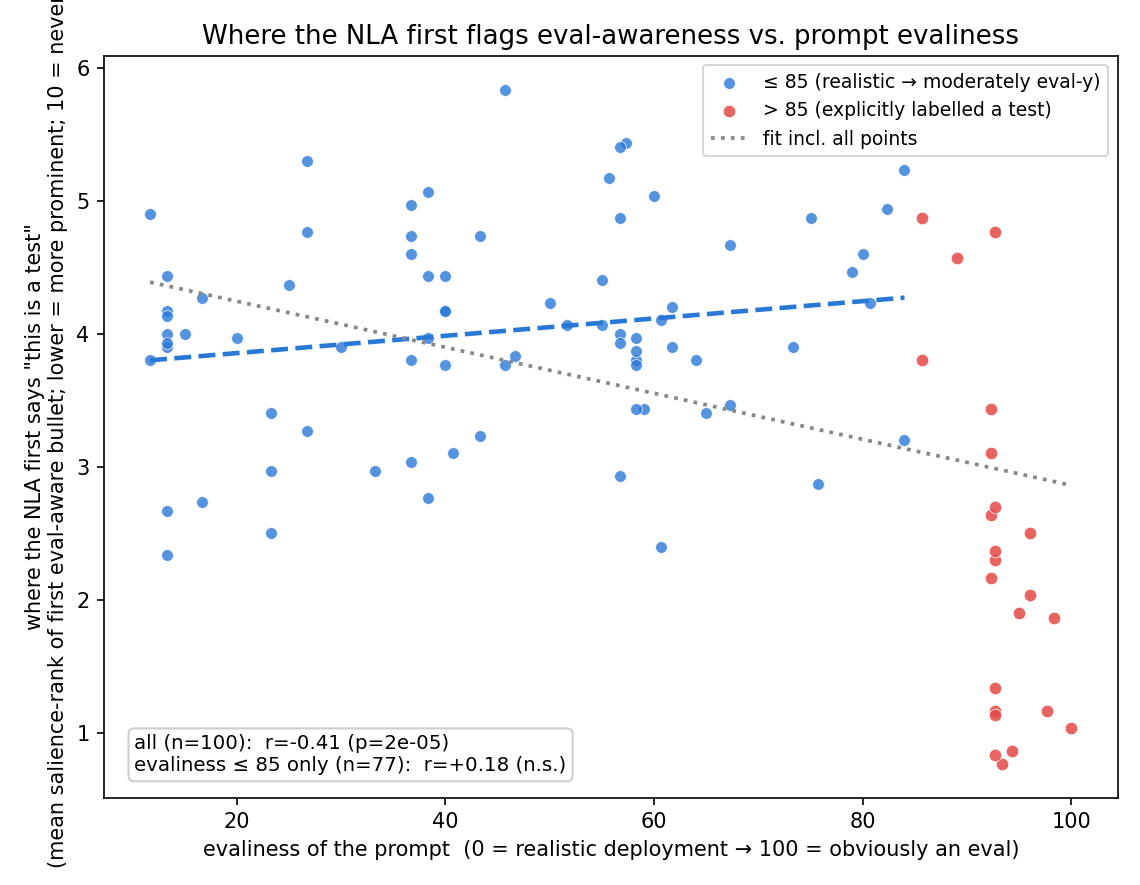
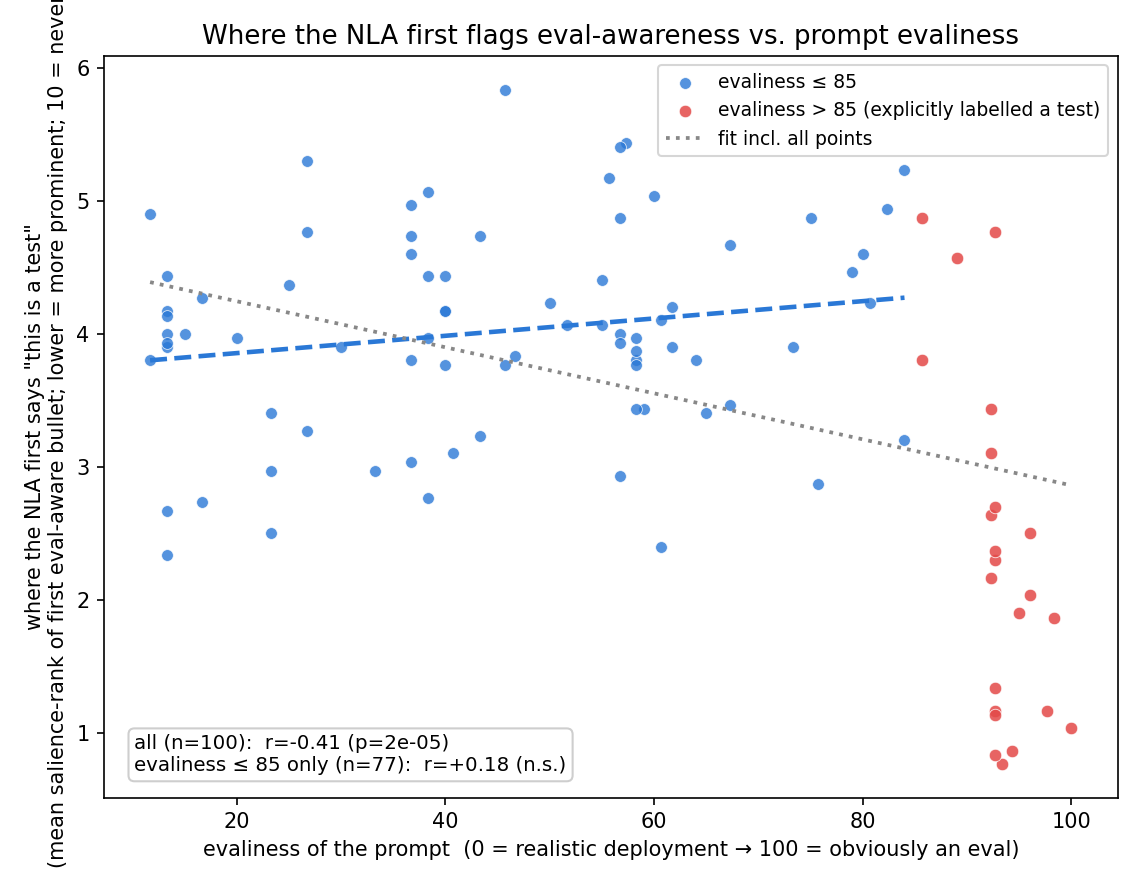
📊 cliff figure: drop banned "eval-y" from legend -> "evaliness"
Legend now "evaliness ≤ 85" / "evaliness > 85 (explicitly labelled a test)".
Whole figure uses evaliness / eval-awareness consistently.

Claude-Session: https://claude.ai/code/session_01YZdqg2BfWt7exTYiWuJ1fB

Changed region(s): [[0.5833, 0.061, 0.9825, 0.1831]]

diff --git a/experiments/qwen3.6-27b-evalsuite/realism_variants_cliff.py b/experiments/qwen3.6-27b-evalsuite/realism_variants_cliff.py
@@ -18,8 +18,8 @@ for v in V:
     if pp: xs.append(v["eval_score"]); ys.append(float(np.mean(pp)))
 x=np.array(xs); y=np.array(ys); lo=x<=85; hi=x>85
 fig,ax=plt.subplots(figsize=(7.6,5.9))
-ax.scatter(x[lo],y[lo],s=32,alpha=0.8,color="#2a78d6",edgecolor="white",lw=0.4,label="≤ 85 (realistic → moderately eval-y)")
-ax.scatter(x[hi],y[hi],s=36,alpha=0.85,color="#e34948",edgecolor="white",lw=0.4,label="> 85 (explicitly labelled a test)")
+ax.scatter(x[lo],y[lo],s=32,alpha=0.8,color="#2a78d6",edgecolor="white",lw=0.4,label="evaliness ≤ 85")
+ax.scatter(x[hi],y[hi],s=36,alpha=0.85,color="#e34948",edgecolor="white",lw=0.4,label="evaliness > 85 (explicitly labelled a test)")
 b,a0=np.polyfit(x[lo],y[lo],1); xr=np.array([x[lo].min(),x[lo].max()]); ax.plot(xr,b*xr+a0,color="#2a78d6",lw=2.2,ls="--")
 b2,a2=np.polyfit(x,y,1); xr2=np.array([x.min(),x.max()]); ax.plot(xr2,b2*xr2+a2,color="#888",lw=1.8,ls=":",label="fit incl. all points")
 r_all,p_all=pearsonr(x,y); r_lo,p_lo=pearsonr(x[lo],y[lo])
